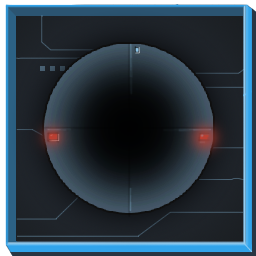
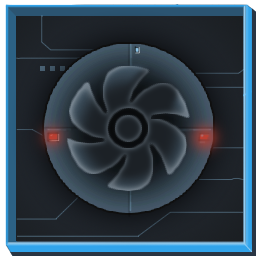
Add clipped gold shine effect on first treasure reveal.
Use Phaser 4 AddMaskShape so the shine sweep stays within card bounds.

Changed region(s): [[0.25, 0.25, 0.75, 0.75]]

diff --git a/src/GameScene.js b/src/GameScene.js
@@ -304,6 +304,9 @@ export default class GameScene extends Phaser.Scene {
     resolveLanding() {
         const result = this.gameManager.resolveCell();
         this.refreshCardVisual(result.cell);
+        if (result.firstVisit && result.cell.type === CellType.GOLD) {
+            this.playGoldShine(result.cell);
+        }
         this.updateHeader();
         this.statusText.setText(this.gameManager.message);
 
@@ -378,6 +381,61 @@ export default class GameScene extends Phaser.Scene {
             entry.sprite.setTexture("cardPass");
             entry.overlay.setVisible(false);
         }
+    }
+
+    playGoldShine(cell) {
+        const entry = this.cardSprites.find((c) => c.cell === cell);
+        if (!entry) return;
+
+        const sprite = entry.sprite;
+        const size = this.layout.cardSize;
+        const half = size / 2;
+        const baseScaleX = sprite.scaleX;
+        const baseScaleY = sprite.scaleY;
+
+        this.tweens.add({
+            targets: sprite,
+            scaleX: baseScaleX * 1.1,
+            scaleY: baseScaleY * 1.1,
+            duration: 160,
+            yoyo: true,
+            ease: "Back.easeOut"
+        });
+
+        const shine = this.add.rectangle(
+            sprite.x - size,
+            sprite.y,
+            size * 0.35,
+            size * 1.25,
+            0xffffff,
+            0.75
+        )
+            .setAngle(25)
+            .setDepth(sprite.depth + 1)
+            .setBlendMode(Phaser.BlendModes.ADD);
+
+        shine.enableFilters();
+        const [maskFilter] = Phaser.Actions.AddMaskShape(shine, {
+            shape: "square",
+            region: new Phaser.Geom.Rectangle(
+                sprite.x - half,
+                sprite.y - half,
+                size,
+                size
+            )
+        });
+
+        this.tweens.add({
+            targets: shine,
+            x: sprite.x + size,
+            alpha: 0,
+            duration: 480,
+            ease: "Sine.easeInOut",
+            onComplete: () => {
+                maskFilter?.destroy();
+                shine.destroy();
+            }
+        });
     }
 
     refreshTokenPositions() {
